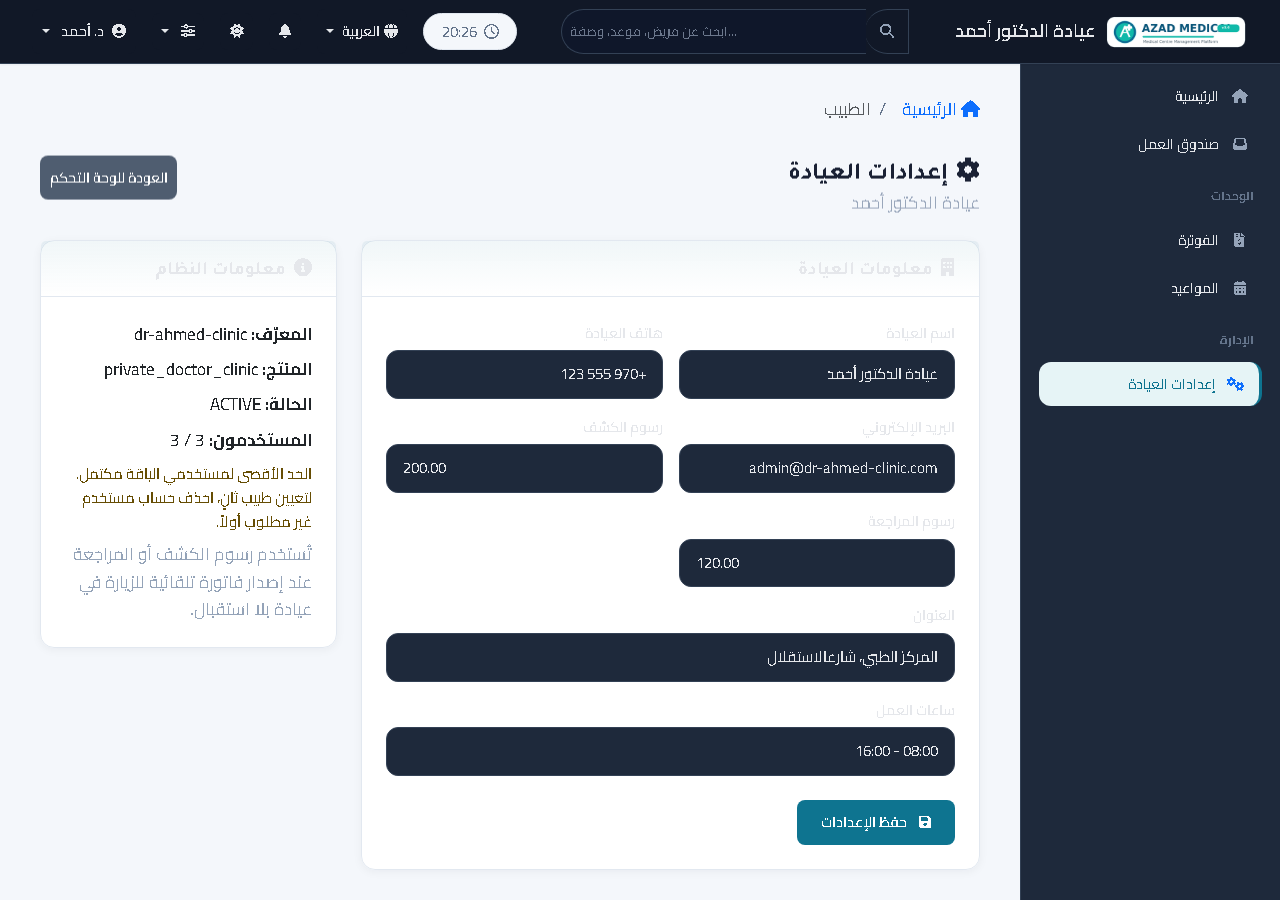
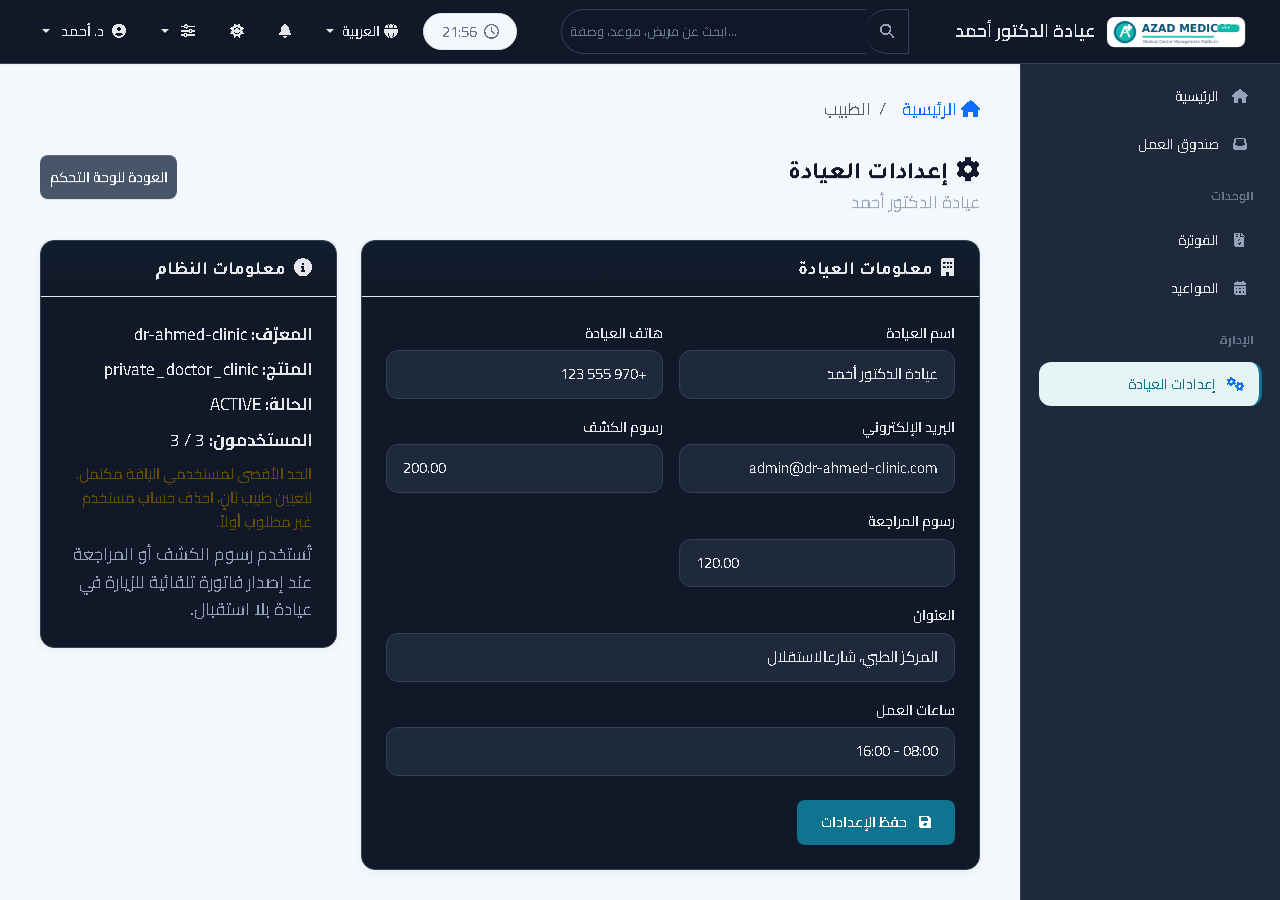
polish(clinical): dark contrast, compact context bars and responsive navbar

diff --git a/static/css/medical-polish.css b/static/css/medical-polish.css
@@ -509,3 +509,53 @@ body:has(.owner-shell) textarea::placeholder {
 .text-muted {
   color: var(--med-muted) !important;
 }
+
+/* Compact clinical context bar — no wasted vertical space above the chart. */
+
+.patient-context-bar {
+  margin-bottom: 0.75rem !important;
+}
+
+.patient-context-bar .card-body {
+  padding: 0.5rem 0.9rem !important;
+}
+
+.patient-context-avatar {
+  width: 36px !important;
+  height: 36px !important;
+  font-size: 0.9rem !important;
+}
+
+/* Dark mode: the token layer is correct, but Bootstrap and body.clinical-theme
+   with equal-or-higher specificity kept light surfaces and dark text. */
+
+[data-theme='dark'] body.clinical-theme {
+  background: var(--color-bg) !important;
+  color: var(--color-text) !important;
+}
+
+[data-theme='dark'] .card:not(.card-stat) {
+  background: var(--color-surface) !important;
+  border-color: var(--color-border) !important;
+  color: var(--color-text) !important;
+}
+
+[data-theme='dark'] .table {
+  background: var(--color-surface) !important;
+  color: var(--color-text) !important;
+}
+
+[data-theme='dark'] .table td,
+[data-theme='dark'] .table th {
+  background: var(--color-surface) !important;
+  color: var(--color-text) !important;
+  border-color: var(--color-border) !important;
+}
+
+[data-theme='dark'] .table-hover tr:hover td {
+  background: var(--color-surface-elevated) !important;
+}
+
+[data-theme='dark'] .text-muted {
+  color: var(--color-text-muted) !important;
+}

diff --git a/templates/partials/_navbar.html b/templates/partials/_navbar.html
@@ -17,7 +17,7 @@
         </a>
 
         {% if current_user.is_authenticated %}
-        <div class="d-none d-md-flex mx-auto px-3" style="max-width:380px;flex:1;">
+        <div class="d-none d-xl-flex mx-auto px-3" style="max-width:380px;flex:1;">
             <form class="global-search-form w-100" id="globalSearchForm" onsubmit="return false;">
                 <div class="input-group input-group-sm">
                     <span class="input-group-text bg-transparent border-end-0" style="border-color:var(--color-border);border-radius:50px 0 0 50px;">
@@ -38,7 +38,7 @@
         {% endif %}
 
         <div class="d-flex align-items-center gap-3 ms-auto">
-            <span class="d-none d-md-inline clock-widget small" id="navbarClock">
+            <span class="d-none d-xl-inline clock-widget small" id="navbarClock">
                 <i class="far fa-clock me-1"></i> --:--
             </span>
 

diff --git a/templates/doctor/appointments.html b/templates/doctor/appointments.html
@@ -1,8 +1,11 @@
 {% extends "base.html" %}
+{% from "partials/_page_header.html" import page_header %}
 {% block title %}{{ _('مواعيد الطبيب') }}{% endblock %}
 {% block content %}
 <div class="container-fluid">
-  <h2 class="mb-3"><i class="fas fa-calendar-alt me-2"></i> {{ _('المواعيد') }}</h2>
+  {{ page_header(_('المواعيد'), subtitle=_('حجوزات العيادة والقادمة'), icon='fas fa-calendar-alt', actions=[
+      {'label': _('العودة للوحة التحكم'), 'icon': 'fas fa-arrow-right', 'url': url_for('doctor.dashboard'), 'style': 'secondary'}
+  ]) }}
   <!-- Stats Cards -->
   <div class="row g-3 mb-4">
     <div class="col-md-3">

diff --git a/templates/doctor/patient_details.html b/templates/doctor/patient_details.html
@@ -13,7 +13,9 @@
     {% if module_active('reception') %}
     {{ patient_context_panel(visit.patient) }}
     {% endif %}
+    {% if visit.status in ['OPEN', 'IN_PROGRESS'] %}
     {{ workflow_next_actions(visit) }}
+    {% endif %}
 
     {% set actions = [
         {'label': _('العودة للطابور'), 'icon': 'fas fa-arrow-right', 'url': url_for('doctor.patient_queue'), 'style': 'secondary'},
